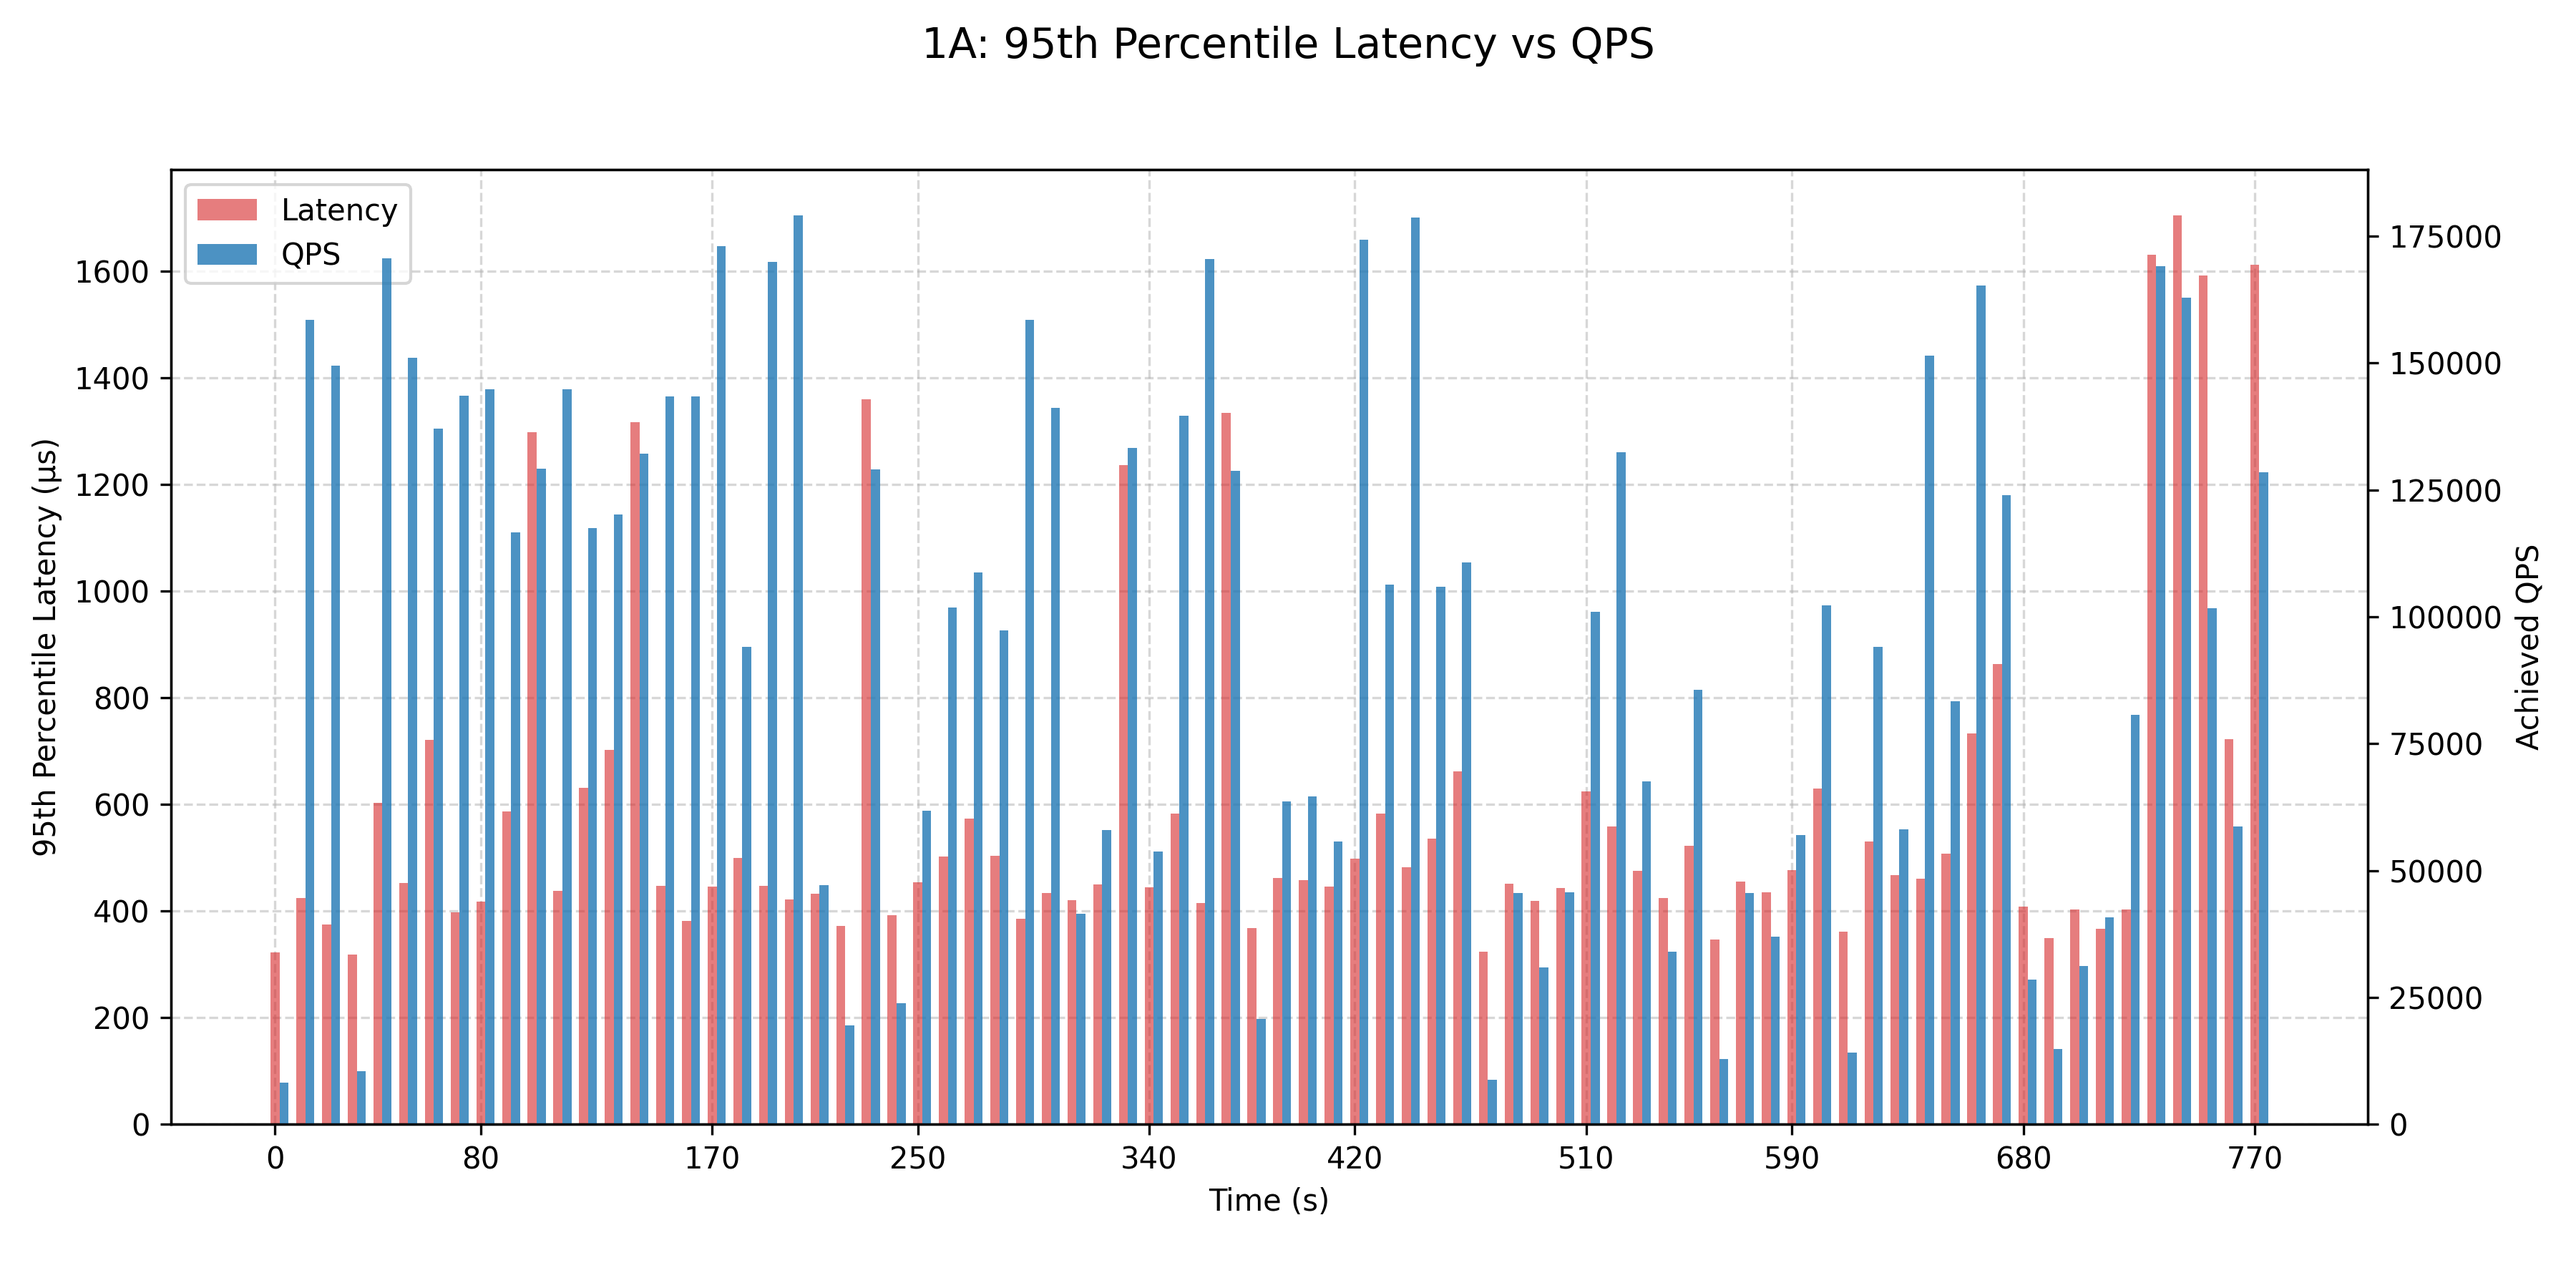
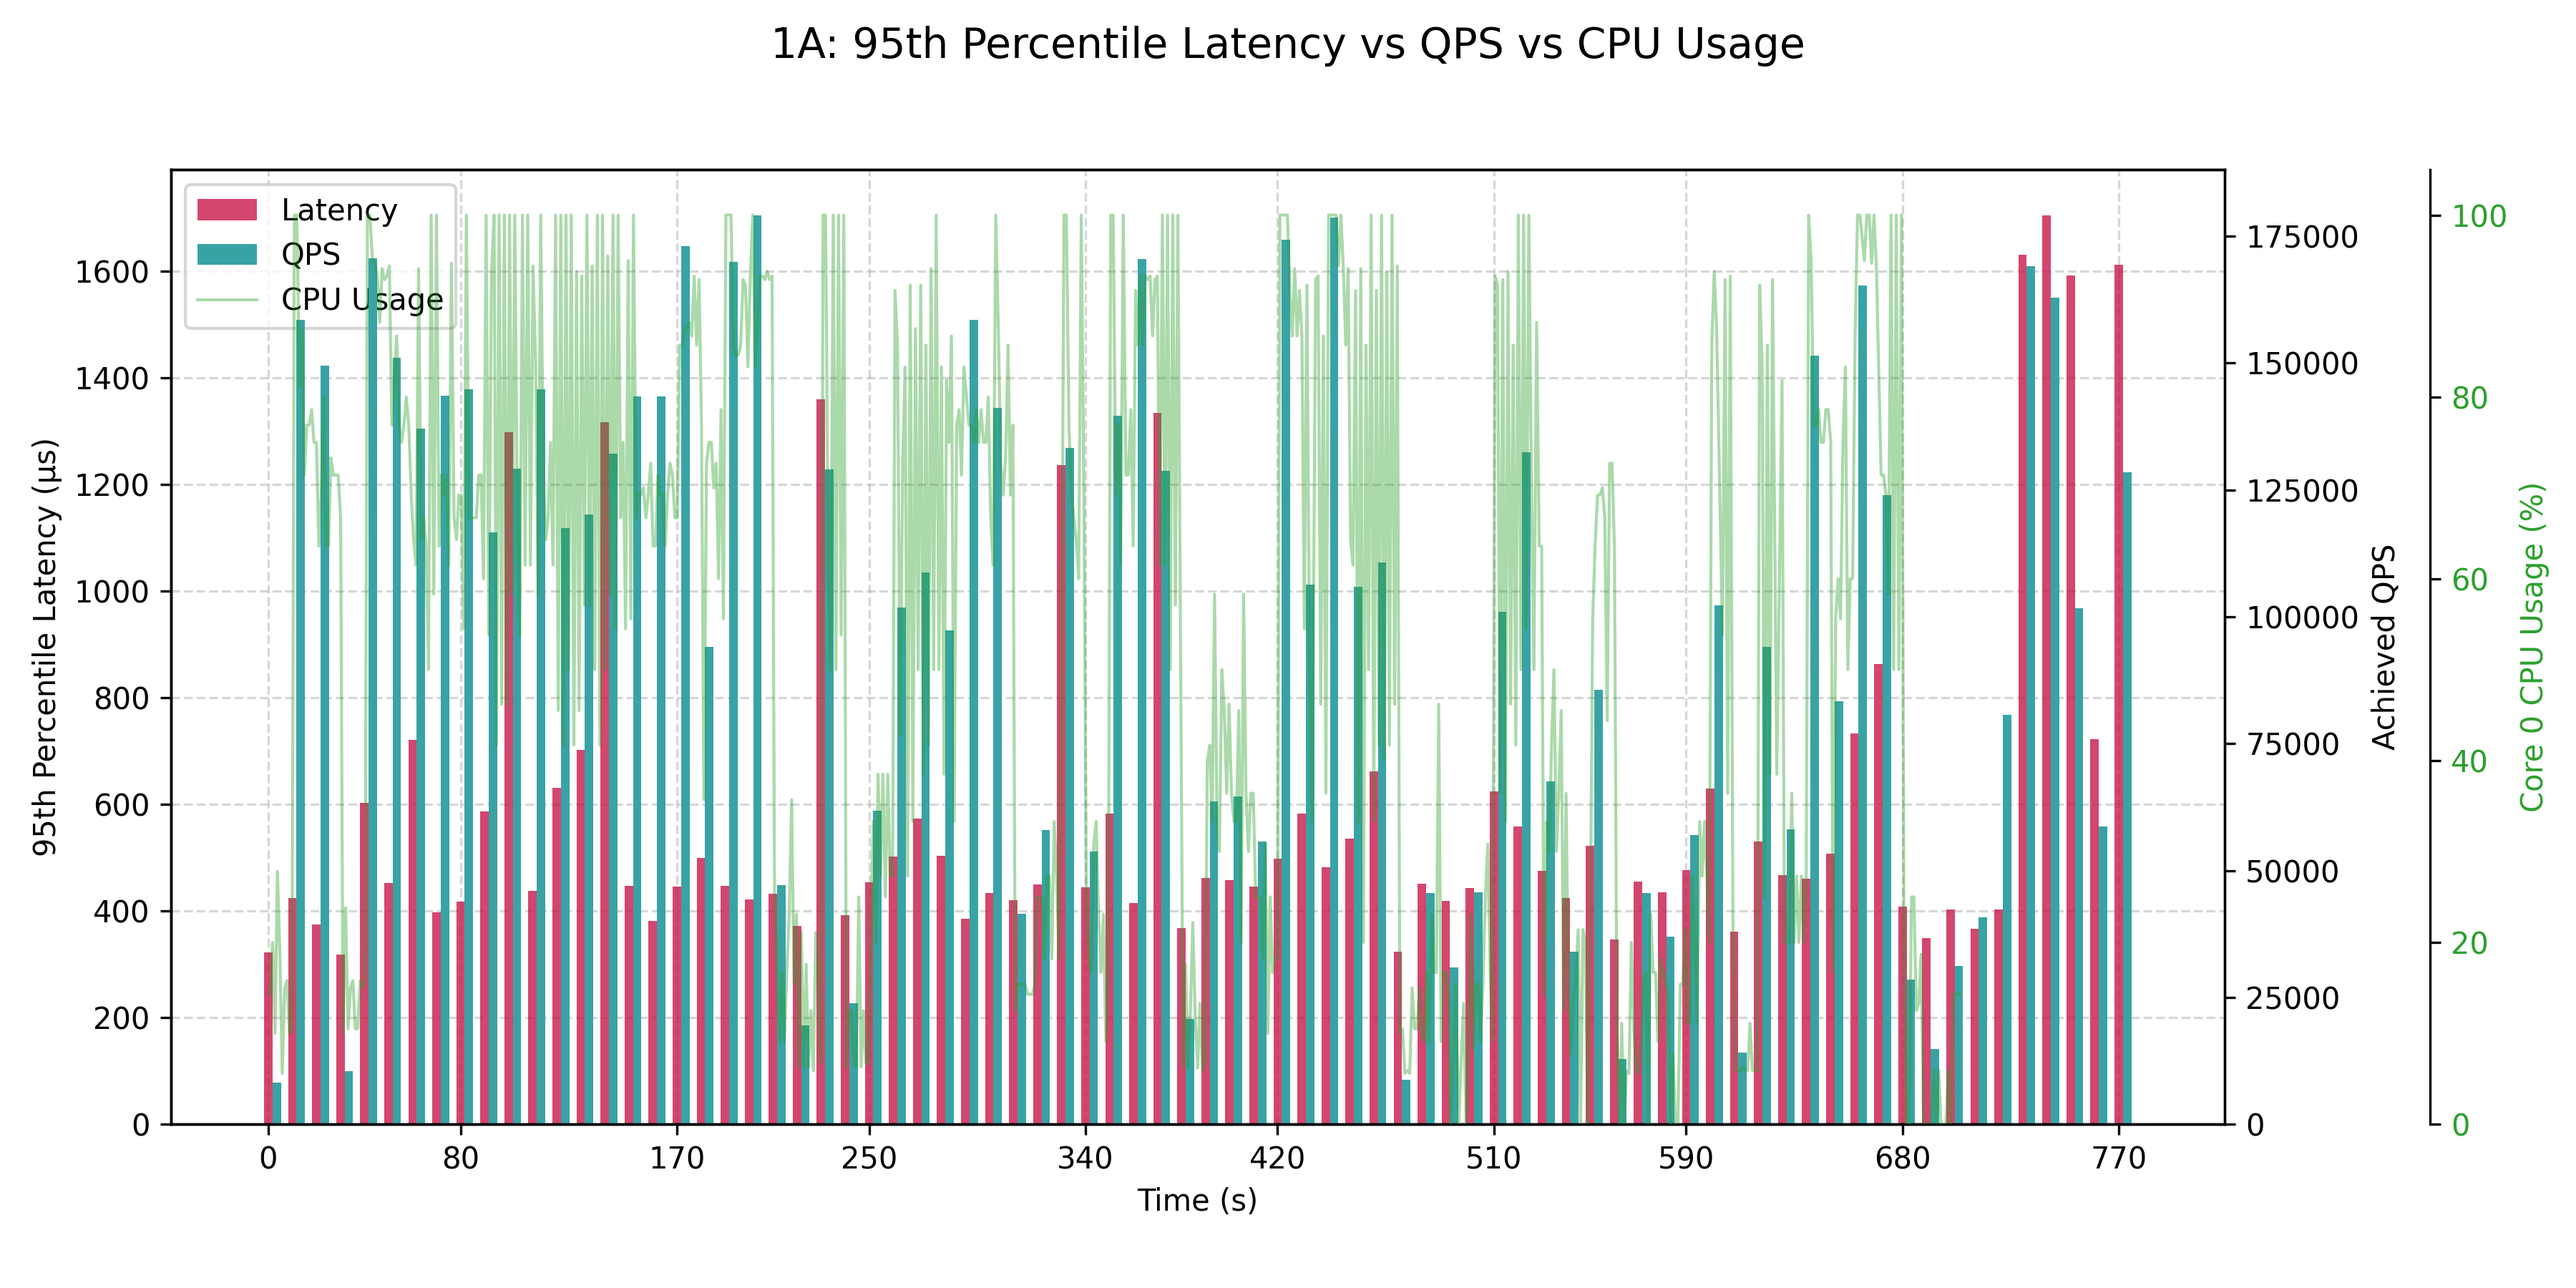
new colors

diff --git a/part4/plot/plot_q3.py b/part4/plot/plot_q3.py
@@ -141,49 +141,52 @@ def get_p95_latencies(result_path):
 
 def export_plot_A(p95_df, cpu_df, folder, run_number, include_cpu=False):
     fig, ax1 = plt.subplots(figsize=(12, 6))
+
+    # Calculate bar positions
+    bar_width = 3.5  # Width of each bar
+    spacing = 3.0    # Space between pairs of bars
     
-    # X-axis: Time in seconds
-    x = p95_df['start_time']
+    # Create positions for each pair of bars
+    positions = np.arange(len(p95_df)) * (2 * bar_width + spacing)
+    
+    # Define nicer colors
+    latency_color = '#c9184a'  # Light red
+    qps_color = '#38a3a5'      # Light blue
     
     # Left Y-Axis: Latency
     ax1.set_xlabel("Time (s)")
-    ax1.set_ylabel("95th Percentile Latency (µs)", color='tab:red')
-    latency_line = ax1.plot(
-        x,
+    ax1.set_ylabel("95th Percentile Latency (µs)")
+    latency_bars = ax1.bar(
+        positions,  # Left bar position
         p95_df['p95'],
-        'o-',  # Circle markers with lines
-        color='tab:red',
-        label="Latency",
+        width=bar_width,
+        color=latency_color,
         alpha=0.8,
-        linewidth=1.5,
-        markersize=4,
+        label="Latency",
         zorder=2
     )
-    ax1.tick_params(axis='y', labelcolor='tab:red')
+    ax1.tick_params(axis='y')
     
-    # Set reasonable y-limits for latency
-    latency_max = p95_df['p95'].max() * 1.1  # 10% headroom
-    ax1.set_ylim(0, latency_max)
+    # Adjust x-ticks to show time in seconds
+    # Map bar positions to actual time values
+    time_labels = p95_df['start_time'].values
+    # Use a subset of positions for readability
+    tick_indices = np.linspace(0, len(positions)-1, 10, dtype=int)
+    ax1.set_xticks(positions[tick_indices])
+    ax1.set_xticklabels([f"{time_labels[i]:.0f}" for i in tick_indices])
 
     # Right Y-Axis: QPS
     ax2 = ax1.twinx()
-    ax2.set_ylabel("Achieved QPS", color='tab:blue')
-    qps_line = ax2.plot(
-        x,
+    ax2.set_ylabel("Achieved QPS")
+    qps_bars = ax2.bar(
+        positions + bar_width,  # Right bar position
         p95_df['QPS'],
-        's-',  # Square markers with lines
-        color='tab:blue',
+        width=bar_width,
+        color=qps_color,
         label="QPS",
-        alpha=0.8,
-        linewidth=1.5,
-        markersize=4,
         zorder=1 
     )
-    ax2.tick_params(axis='y', labelcolor='tab:blue')
-    
-    # Set reasonable y-limits for QPS
-    qps_max = p95_df['QPS'].max() * 1.1  # 10% headroom
-    ax2.set_ylim(0, qps_max)
+    ax2.tick_params(axis='y')
     
     # Third Y-Axis: CPU Usage (conditional)
     ax3 = None
@@ -204,10 +207,9 @@ def export_plot_A(p95_df, cpu_df, folder, run_number, include_cpu=False):
         print(f"Total CPU data points: {len(cpu_df)}")
         
         # Plot all CPU data points directly with semi-transparency
-        cpu_line = ax3.plot(
+        ax3.plot(
             cpu_df['relative_time'], 
             cpu_df['cpu_usage'], 
-            '-',  # Line only, no markers due to high density
             color='tab:green', 
             linewidth=1.0,  # Thinner line
             alpha=0.4,      # Semi-transparent
@@ -226,14 +228,13 @@ def export_plot_A(p95_df, cpu_df, folder, run_number, include_cpu=False):
     fig.tight_layout(rect=[0, 0.03, 1, 0.95])  # Room for title
 
     # Create combined legend
-    lines = latency_line + qps_line
-    labels = ["Latency", "QPS"]
-    
+    lines1, labels1 = ax1.get_legend_handles_labels()
+    lines2, labels2 = ax2.get_legend_handles_labels()
+    lines3, labels3 = [], []
     if ax3:
-        lines += cpu_line
-        labels.append("CPU Usage")
+        lines3, labels3 = ax3.get_legend_handles_labels()
     
-    fig.legend(lines, labels, loc='upper right', bbox_to_anchor=(0.99, 0.99), framealpha=0.9)
+    ax1.legend(lines1 + lines2 + lines3, labels1 + labels2 + labels3, loc='upper left', bbox_to_anchor=(0, 1))
 
     # Save plot
     os.makedirs(folder, exist_ok=True)
